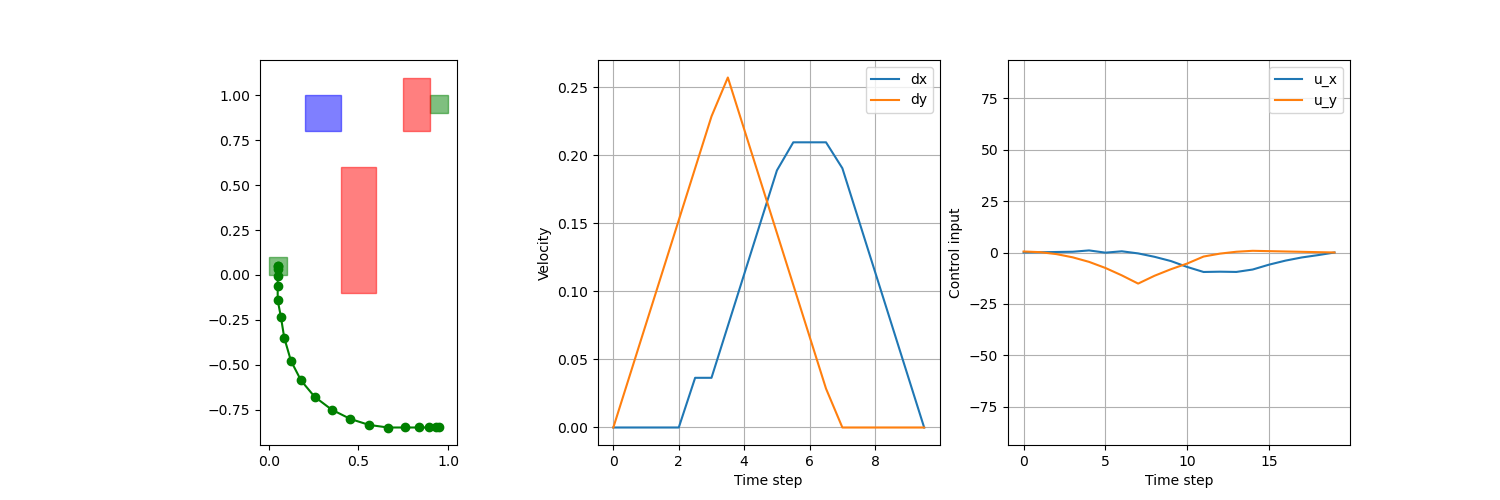
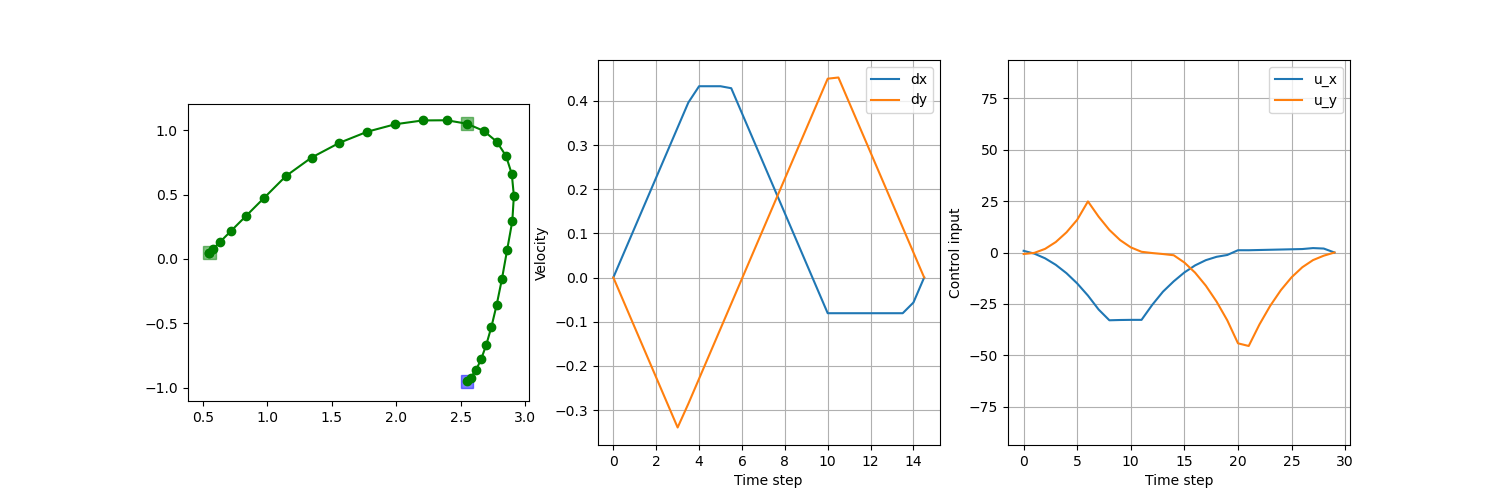
added example for testing on floor

diff --git a/stl_mapping/Planning/main.py b/stl_mapping/Planning/main.py
@@ -13,14 +13,14 @@ import sys
 parent_dir = os.path.abspath(os.path.join(os.path.dirname(__file__), '..'))
 sys.path.insert(0, parent_dir)
 from Utilities.Robots import FreeFlyer, BlueROV, LinearFreeFlyer6DoF
-from stl_mapping.Utilities.sets import HyperRectangle, Polytope
+from Utilities.sets import HyperRectangle, Polytope
 from Utilities.rotations import quat_to_euler_np, quat_to_euler_cs, euler_to_quat_np, euler_to_quat_cs
 from Utilities.rotations import quat_x_to_euler_x_cs, euler_x_to_quat_x_cs, quat_x_to_euler_x_np, euler_x_to_quat_x_np
 from Utilities.stl import Pred, Spec, quant_parse_operator, OptProbItems
 
 
 # hyperparameters
-N = 20     # number of time steps
+N = 30     # number of time steps
 dt = 0.5    # time step size
 t0 = 0      # initial time
 tf = (N-1)*dt   # final time
@@ -30,23 +30,35 @@ bigM = 1e4
 # Robot
 sp_robot = LinearFreeFlyer6DoF()
 
-# Specification
-X0 = HyperRectangle(np.array([0, 0, 0]), np.array([0.1, 0.1, 0.1]))
-Xf = HyperRectangle(np.array([0.90, 0.90, 0]), np.array([1, 1, 0.1]))
-XA = HyperRectangle(np.array([0.2, 0.8, 0,  -np.pi/2-np.pi/8]), np.array([0.4, 1.0, 0.1,  -np.pi/2+np.pi/8]))
-# XA = HyperRectangle(np.array([0.2, 0.8, 0]), np.array([0.4, 1.0, 0.1]))
-Obs = [HyperRectangle(np.array([0.4, -0.1]), np.array([0.6, 0.6])),
-       HyperRectangle(np.array([0.75, 0.8]), np.array([0.9, 1.1]))]
-World = HyperRectangle(np.array([0, 0, -10, -10]), np.array([1, 1, 10, 10]))
+# # Specification
+# X0 = HyperRectangle(np.array([0, 0, 0]), np.array([0.1, 0.1, 0.1]))
+# Xf = HyperRectangle(np.array([0.90, 0.90, 0]), np.array([1, 1, 0.1]))
+# XA = HyperRectangle(np.array([0.2, 0.8, 0,  -np.pi/2-np.pi/8]), np.array([0.4, 1.0, 0.1,  -np.pi/2+np.pi/8]))
+# # XA = HyperRectangle(np.array([0.2, 0.8, 0]), np.array([0.4, 1.0, 0.1]))
+# Obs = [HyperRectangle(np.array([0.4, -0.1]), np.array([0.6, 0.6])),
+#        HyperRectangle(np.array([0.75, 0.8]), np.array([0.9, 1.1]))]
+# World = HyperRectangle(np.array([0, 0, -10, -10]), np.array([1, 1, 10, 10]))
+# phi = Pred("AND", preds=[
+#     Pred("G", [t0,t0], preds=[Pred("MU", preds=[Polytope(X0)], dims=[0,1,2])]),
+#     Pred("G", [tf,tf], preds=[Pred("MU", preds=[Polytope(Xf)], dims=[0,1,2])]),
+#     Pred("F", [t0,tf], preds=[Pred("MU", preds=[Polytope(XA)], dims=[0,1,2, 5])]),
+#     # Pred("F", [t0,tf], preds=[Pred("MU", preds=[Polytope(XA)], dims=[0,1,2])]),
+#     Pred("G", [t0,tf], preds=[Pred("MU", preds=[Polytope(World)], dims=[0,1,6,7])]),
+#     # Pred("G", [t0,tf], preds=[Pred("NEG", preds=[Pred("MU", preds=[Polytope(Obs[0])], dims=[0,1])])]),
+#     # Pred("G", [t0,tf], preds=[Pred("NEG", preds=[Pred("MU", preds=[Polytope(Obs[1])], dims=[0,1])])])
+# ])
+# spec = Spec(phi, t0, tf)
 
+X0 = HyperRectangle(np.array([0.5, 0, 0]), np.array([0.6, 0.1, 0.1]))
+Xf = HyperRectangle(np.array([2.5, 1.0, 0]), np.array([2.6, 1.1, 0.1]))
+XA = HyperRectangle(np.array([2.5, -1.0, 0,  -np.pi/2-np.pi/8]), np.array([2.6, -0.9, 0.1,  -np.pi/2+np.pi/8]))
+Obs = []
+World = HyperRectangle(np.array([0, -1.5, -10, -10]), np.array([4, 1.5, 10, 10]))
 phi = Pred("AND", preds=[
     Pred("G", [t0,t0], preds=[Pred("MU", preds=[Polytope(X0)], dims=[0,1,2])]),
     Pred("G", [tf,tf], preds=[Pred("MU", preds=[Polytope(Xf)], dims=[0,1,2])]),
     Pred("F", [t0,tf], preds=[Pred("MU", preds=[Polytope(XA)], dims=[0,1,2, 5])]),
-    # Pred("F", [t0,tf], preds=[Pred("MU", preds=[Polytope(XA)], dims=[0,1,2])]),
     Pred("G", [t0,tf], preds=[Pred("MU", preds=[Polytope(World)], dims=[0,1,6,7])]),
-    # Pred("G", [t0,tf], preds=[Pred("NEG", preds=[Pred("MU", preds=[Polytope(Obs[0])], dims=[0,1])])]),
-    # Pred("G", [t0,tf], preds=[Pred("NEG", preds=[Pred("MU", preds=[Polytope(Obs[1])], dims=[0,1])])])
 ])
 spec = Spec(phi, t0, tf)
 
@@ -84,7 +96,7 @@ if True:
     opt.addConstr(act_int_var == gp.quicksum([act_abs_var[i,j] for i in range(N) for j in range(sp_robot.n_u)]), name="act_int_sum")
     opt.addConstr(cost_var == 1*alpha_vars - 10000*spec.phi.rho + 0.0001*act_int_var) # quad_cost
     opt.setObjective(cost_var, gp.GRB.MINIMIZE)
-    opt.setParam('OutputFlag', 0)  # Suppress Gurobi output
+    opt.setParam('OutputFlag', 1)  # Suppress Gurobi output
     opt.optimize()
     if opt.status == gp.GRB.OPTIMAL:
         print(f"Optimal solution found")

diff --git a/stl_mapping/setup.py b/stl_mapping/setup.py
@@ -30,18 +30,14 @@ setup(
     entry_points={
         'console_scripts': [
                 # planning and missions
-                'main_planner = stl_mapping.planners.main_planner:main',
-                'replanner = stl_mapping.planners.replanner:main',
-                'scenario = stl_mapping.scenario:main',
-                'reset = stl_mapping.reset:main',
 
                 # controllers
                 'mpc_node = Control.mpc_node:main',
 
                 # helpers
-                'odom_to_vehicle_local_position = stl_mapping.helpers.odom_to_vehicle_local_position:main',
-                'odom_to_vehicle_angular_velocity = stl_mapping.helpers.odom_to_vehicle_angular_velocity:main',
-                'odom_to_vehicle_attitude = stl_mapping.helpers.odom_to_vehicle_attitude:main',
+                # 'odom_to_vehicle_local_position = stl_mapping.helpers.odom_to_vehicle_local_position:main',
+                # 'odom_to_vehicle_angular_velocity = stl_mapping.helpers.odom_to_vehicle_angular_velocity:main',
+                # 'odom_to_vehicle_attitude = stl_mapping.helpers.odom_to_vehicle_attitude:main',
 
         ],
     },

diff --git a/stl_mapping/Planning/bezier_fitting.py b/stl_mapping/Planning/bezier_fitting.py
@@ -2,11 +2,13 @@ import numpy as np
 import cvxpy as cp
 import matplotlib.pyplot as plt
 
+import os
 import sys
-sys.path.append(".")
+parent_dir = os.path.abspath(os.path.join(os.path.dirname(__file__), '..'))
+sys.path.insert(0, parent_dir)
 from Utilities.beziers import eval_bezier
 
-data = np.load('Planning/solutions/sp_solution_quat.npz')
+data = np.load('stl_mapping/Planning/solutions/sp_solution_quat.npz')
 
 x_ff = data['x_ff']
 u_ff = data['u_ff']
@@ -58,7 +60,7 @@ r_sols, dr_sols, ddr_sols = np.array(r_sols), np.array(dr_sols), np.array(ddr_so
 q_sols = [np.array([x_ff[i, 3:7], x_ff[i+1, 3:7]]) for i in range(N-1)]
 q_sols = np.array(q_sols)
 
-np.savez('Planning/solutions/sp_solution_bezier.npz',
+np.savez('stl_mapping/Planning/solutions/sp_solution_bezier.npz',
          r=r_sols, dr=dr_sols, ddr=ddr_sols, q=q_sols, dt=dt, alpha=alpha, times=times)
 
 
@@ -105,5 +107,5 @@ for i in range(N-1):
 axs[2].set_title('Acceleration Bezier Curve')
 axs[2].set_xlabel('ax')
 axs[2].set_ylabel('ay')
-plt.show()
+plt.savefig('stl_mapping/Planning/figures/sp_solution_bezier.png')
 

diff --git a/stl_mapping/Utilities/Robots.py b/stl_mapping/Utilities/Robots.py
@@ -1,11 +1,11 @@
 import numpy as np
 import casadi as cs
 import gurobipy as gp
-from stl_mapping.Utilities.sets import HyperRectangle, Zonotope
+from Utilities.sets import HyperRectangle, Zonotope
 from Utilities.rotations import skew_symmetric, q_to_rot_mat
 from Utilities.rotations import euler_to_quat_cs, euler_to_quat_np, quat_to_euler_cs, quat_to_euler_np
 from Utilities.rotations import quat_x_to_euler_x_cs, euler_x_to_quat_x_cs
-from stl_mapping.Utilities.sets import compute_K
+from Utilities.sets import compute_K
 from Utilities.stl import OptProbItems
 
 

diff --git a/stl_mapping/Utilities/sets.py b/stl_mapping/Utilities/sets.py
@@ -75,7 +75,7 @@ class HyperRectangle():
     
     def plot(self, ax:plt.Axes, color='blue', alpha=0.5):
         rect = plt.Rectangle(self.lower_bounds[:2], self.size[0], self.size[1], 
-                             alpha=alpha, color=color)
+                             alpha=alpha, color=color, lw=1, edgecolor='black')
         ax.add_patch(rect)
 
 class Zonotope():

diff --git a/stl_mapping/Utilities/stl.py b/stl_mapping/Utilities/stl.py
@@ -1,5 +1,5 @@
 import gurobipy as gp
-from stl_mapping.Utilities.sets import Polytope
+from Utilities.sets import Polytope
 import numpy as np
 
 class OptProbItems:
